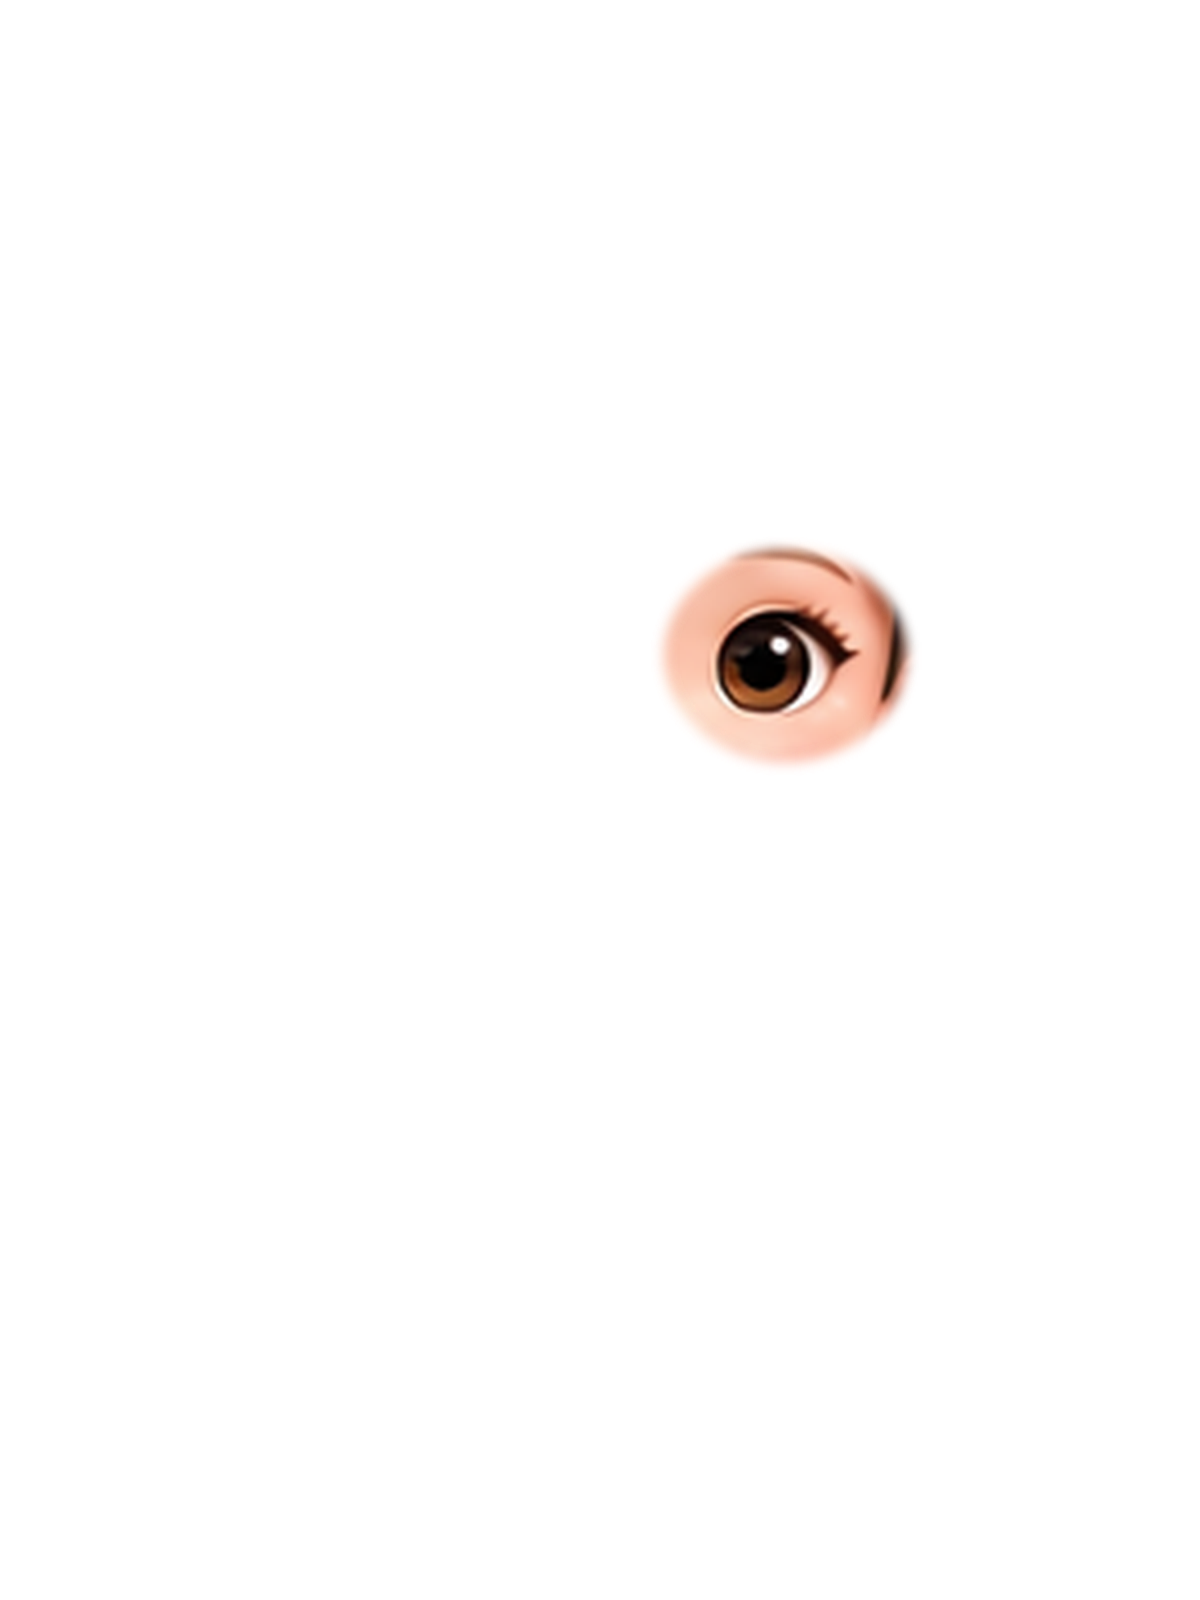
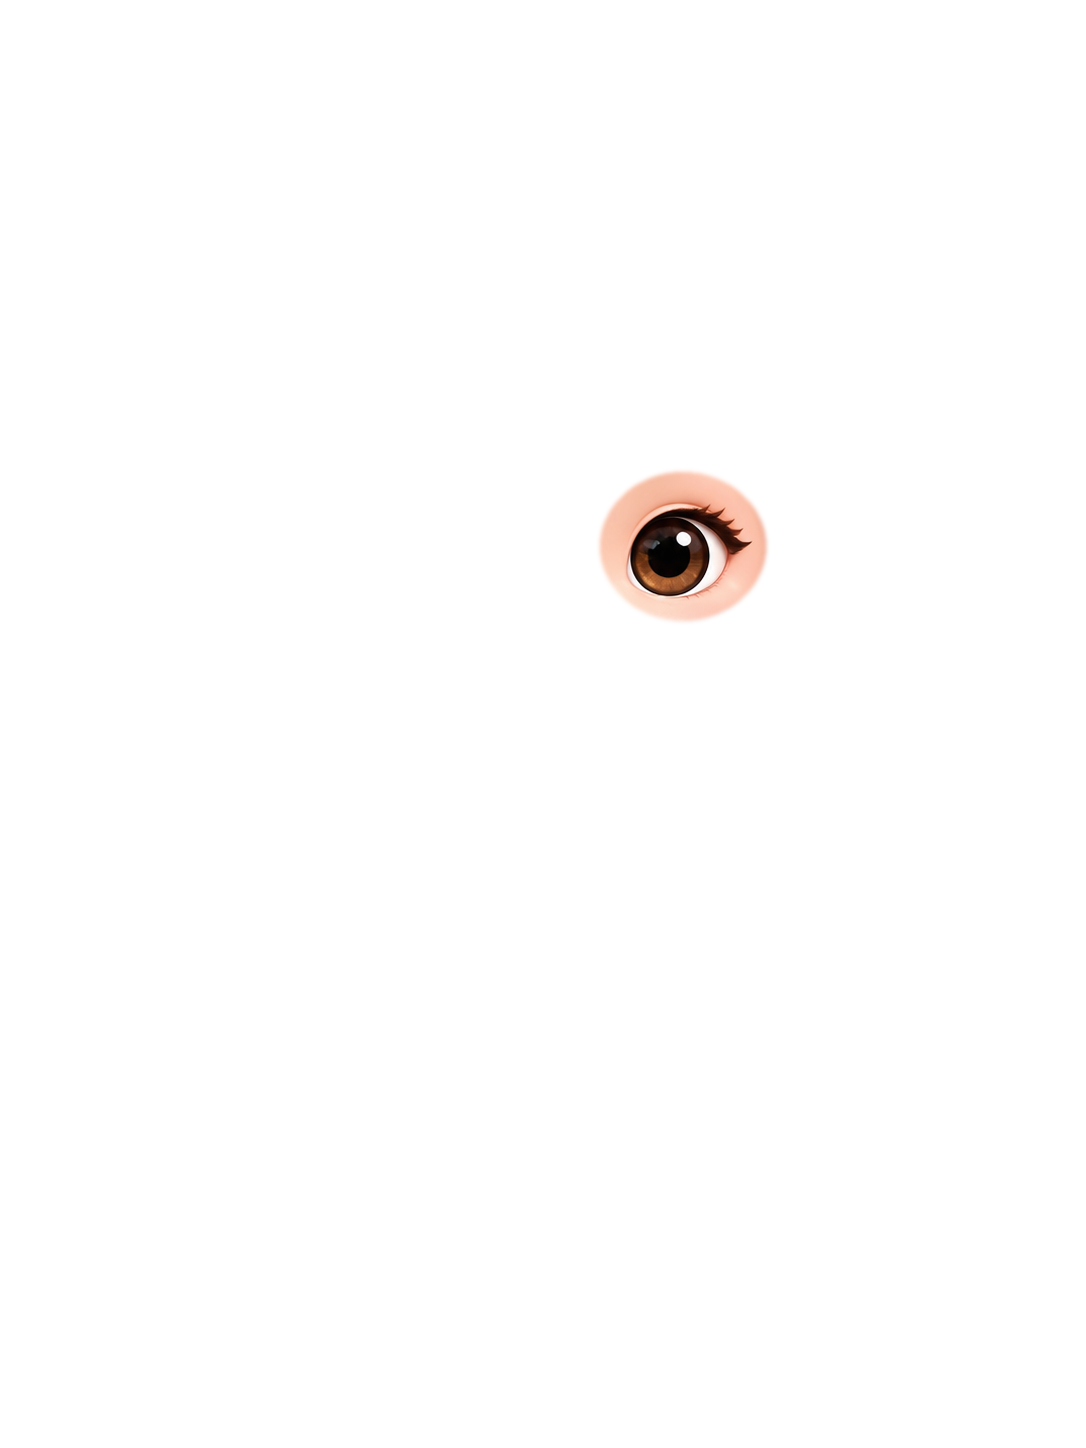
Build full Riki body and dress-up rig

Changed region(s): [[0.547, 0.3108, 0.7597, 0.4972]]

diff --git a/preview-layered-riki.html b/preview-layered-riki.html
@@ -1,21 +1,25 @@
-<!doctype html>
-<html lang="en"><head><meta charset="utf-8"><meta name="viewport" content="width=device-width,initial-scale=1"><title>Riki — Layered Character Test</title>
-<style>
-:root{font-family:Nunito,ui-rounded,"Arial Rounded MT Bold",system-ui,sans-serif;color:#57364f;background:#fff5fb}*{box-sizing:border-box}body{margin:0;min-height:100vh;background:radial-gradient(circle at 50% 5%,#fff 0,#fff6fb 42%,#f9e8f4 100%)}main{width:min(100%,840px);margin:auto;padding:18px}.card{background:#fff;border:1px solid #f1d6e8;border-radius:28px;box-shadow:0 18px 50px #be7da52b;overflow:hidden}.header{text-align:center;padding:18px 18px 4px}.header h1{font-size:clamp(22px,5vw,34px);margin:0}.header p{margin:7px auto 0;max-width:620px;line-height:1.35;color:#7a6073}.stage{position:relative;width:min(100%,450px);aspect-ratio:3/4;margin:0 auto;overflow:visible;transform-origin:50% 82%;animation:gentleLife 6s steps(1,end) infinite}.layer{position:absolute;inset:0;width:100%;height:100%;object-fit:contain;pointer-events:none}.mouth,.blink{opacity:0}.mouth.on,.blink.on{opacity:1}.eyes.off,.closed.off{opacity:0}.controls{display:flex;flex-wrap:wrap;justify-content:center;gap:10px;padding:10px 16px 22px}button{border:0;border-radius:999px;padding:12px 18px;min-height:46px;background:#f1d7e9;color:#56334d;font:800 15px inherit;cursor:pointer;box-shadow:inset 0 -2px #b7659633}button.primary{background:#db4f9c;color:#fff}button:focus-visible{outline:3px solid #7b3fff;outline-offset:2px}.proof{margin:0 18px 18px;padding:12px 15px;border-radius:16px;background:#fff7d7;font-size:14px;line-height:1.4}.proof b{color:#9a4b08}@keyframes gentleLife{0%,49%,100%{transform:translateY(0)}50%,99%{transform:translateY(-1px)}}@media(prefers-reduced-motion:reduce){.stage{animation:none}}@media(max-width:520px){main{padding:8px}.card{border-radius:20px}.header{padding-top:14px}.stage{width:min(100%,380px)}.controls{padding-top:2px}button{flex:1 1 42%}}
-</style></head><body><main><section class="card"><div class="header"><h1>Riki’s real layered face</h1><p>One fixed doll. The eyes and mouth are separate transparent pieces aligned to the same canvas.</p></div><div class="stage" aria-label="Layered Riki character preview">
-<img class="layer" src="assets/characters/riki-layered/base.webp" alt="">
-<img class="layer eyes" src="assets/characters/riki-layered/eye-left.webp" alt=""><img class="layer eyes" src="assets/characters/riki-layered/eye-right.webp" alt="">
-<img class="layer blink" src="assets/characters/riki-layered/eyes-blink.webp" alt="">
-<img class="layer closed" src="assets/characters/riki-layered/mouth-closed.webp" alt="">
-<img class="layer mouth" data-mouth="small" src="assets/characters/riki-layered/mouth-small.webp" alt=""><img class="layer mouth" data-mouth="wide" src="assets/characters/riki-layered/mouth-wide.webp" alt=""><img class="layer mouth" data-mouth="o" src="assets/characters/riki-layered/mouth-o.webp" alt="">
-</div><div class="controls"><button class="primary" id="talk">▶ Hear Riki talk</button><button id="blink">Blink once</button><button id="stop">Stop</button></div><div class="proof"><b>What changed:</b> she now always blinks while speaking and has a crisp one-pixel breathing settle. Her body, hair, head, and lighting never switch images. Only a small mouth layer changes while she speaks, and only the eye layer changes when she blinks.</div></section></main>
+<!doctype html><html lang="en"><head><meta charset="utf-8"><meta name="viewport" content="width=device-width,initial-scale=1"><title>Riki — Full Dress-Up Rig</title><style>
+:root{font-family:Nunito,ui-rounded,"Arial Rounded MT Bold",system-ui,sans-serif;color:#56364e;background:#fff4fb}*{box-sizing:border-box}body{margin:0;min-height:100vh;background:radial-gradient(circle at 50% 4%,#fff 0,#fff5fb 45%,#f7e4f2 100%)}main{width:min(100%,900px);margin:auto;padding:14px}.card{background:#fff;border:1px solid #efd4e6;border-radius:28px;box-shadow:0 18px 50px #b36e9b28;overflow:hidden}.header{text-align:center;padding:16px 16px 0}.header h1{font-size:clamp(22px,5vw,34px);margin:0}.header p{margin:6px auto 0;max-width:650px;line-height:1.35;color:#796073}.stage{position:relative;width:min(100%,440px);aspect-ratio:3/4;margin:0 auto;overflow:visible}.layer{position:absolute;inset:0;width:100%;height:100%;object-fit:contain;pointer-events:none;transform:translateZ(0)}.blink,.mouth,.wearable{opacity:0}.blink.on,.mouth.on,.wearable.on{opacity:1}.eyes.off,.closed.off{opacity:0}.arm-left,.hand-left{transform-origin:38.9% 55.2%;transition:transform .36s ease-in-out}.arm-right,.hand-right{transform-origin:61.1% 55.2%;transition:transform .36s ease-in-out}.wave-left{transform:rotate(3deg)}.wave-right{transform:rotate(-3deg)}.panel{padding:4px 16px 20px}.row{display:flex;flex-wrap:wrap;justify-content:center;gap:8px;margin-top:9px}.label{text-align:center;font-size:12px;font-weight:900;letter-spacing:.08em;text-transform:uppercase;color:#9b6b8c;margin-top:10px}button{border:0;border-radius:999px;min-height:42px;padding:10px 15px;background:#f2dcea;color:#56364e;font:800 14px inherit;cursor:pointer;box-shadow:inset 0 -2px #9e507c2b}button.primary,button.selected{background:#da4e9a;color:#fff}button:focus-visible{outline:3px solid #7438ea;outline-offset:2px}.proof{margin:0 18px 18px;padding:12px 15px;border-radius:16px;background:#fff7d8;font-size:14px;line-height:1.4}.proof b{color:#95480d}@media(max-width:520px){main{padding:7px}.card{border-radius:20px}.stage{width:min(100%,370px)}.panel{padding-top:0}button{flex:1 1 29%;padding-inline:8px}}
+</style></head><body><main><section class="card"><div class="header"><h1>Riki’s full dress-up rig</h1><p>Clean hair edges, separate body pieces, and fixed anchors that keep clothing and accessories attached correctly.</p></div>
+<div class="stage" aria-label="Fully layered Riki doll">
+<img class="layer" src="assets/characters/riki-layered/hair-back.webp" alt="">
+<img class="layer" src="assets/characters/riki-layered/legs-shoes.webp" alt="">
+<img class="layer" src="assets/characters/riki-layered/torso.webp" alt="">
+<img class="layer arm-left" src="assets/characters/riki-layered/arm-left.webp" alt=""><img class="layer arm-right" src="assets/characters/riki-layered/arm-right.webp" alt="">
+<img class="layer wearable outfit dress" src="assets/characters/riki-layered/outfit-pink-dress.webp" alt=""><img class="layer wearable outfit mint" src="assets/characters/riki-layered/outfit-mint-top.webp" alt=""><img class="layer wearable shoes" src="assets/characters/riki-layered/shoes-pink.webp" alt="">
+<img class="layer" src="assets/characters/riki-layered/head-base.webp" alt=""><img class="layer eyes" src="assets/characters/riki-layered/eye-left.webp" alt=""><img class="layer eyes" src="assets/characters/riki-layered/eye-right.webp" alt=""><img class="layer blink" src="assets/characters/riki-layered/eyes-blink.webp" alt="">
+<img class="layer closed" src="assets/characters/riki-layered/mouth-closed.webp" alt=""><img class="layer mouth" src="assets/characters/riki-layered/mouth-small.webp" alt=""><img class="layer mouth" src="assets/characters/riki-layered/mouth-wide.webp" alt=""><img class="layer mouth" src="assets/characters/riki-layered/mouth-o.webp" alt="">
+<img class="layer hand-left" src="assets/characters/riki-layered/hand-left.webp" alt=""><img class="layer hand-right" src="assets/characters/riki-layered/hand-right.webp" alt=""><img class="layer wearable accessories" src="assets/characters/riki-layered/accessories-sunshine.webp" alt="">
+</div><div class="panel"><div class="label">Outfit</div><div class="row outfit-controls"><button data-outfit="none">Basics</button><button data-outfit="dress" class="selected">Pink dress</button><button data-outfit="mint">Mint top</button></div><div class="label">Extras</div><div class="row"><button id="shoes">Pink shoes</button><button id="accessories">Accessories</button><button id="wave">Small wave</button></div><div class="row"><button class="primary" id="talk">▶ Hear Riki talk</button><button id="blink">Blink</button><button id="stop">Stop</button></div></div><div class="proof"><b>Built for dress-up:</b> shoulders, neck, waist, hips, ears, hands, and feet now have saved coordinates. Clothes use those coordinates, hands stay above the outfit, and hair stays behind the body.</div></section></main>
 <script>
-const mouths=[...document.querySelectorAll('.mouth')],closed=document.querySelector('.closed'),eyes=[...document.querySelectorAll('.eyes')],blink=document.querySelector('.blink');let timer=0,utterance=null,blinkBusy=false,blinkTimer=0,talkBlinkTimer=0;
-function neutral(){clearInterval(timer);timer=0;mouths.forEach(x=>x.classList.remove('on'));closed.classList.remove('off')}
+const $=s=>document.querySelector(s),$$=s=>[...document.querySelectorAll(s)],mouths=$$('.mouth'),closed=$('.closed'),eyes=$$('.eyes'),blink=$('.blink');let speechTimer=0,blinkBusy=false,autoBlink=0,talkBlink=0;
+function neutral(){clearInterval(speechTimer);speechTimer=0;mouths.forEach(x=>x.classList.remove('on'));closed.classList.remove('off')}
 function showMouth(i){closed.classList.add('off');mouths.forEach((x,n)=>x.classList.toggle('on',n===i))}
 function blinkOnce(){if(blinkBusy)return;blinkBusy=true;eyes.forEach(x=>x.classList.add('off'));blink.classList.add('on');setTimeout(()=>{blink.classList.remove('on');eyes.forEach(x=>x.classList.remove('off'));blinkBusy=false},125)}
-function scheduleBlink(){clearTimeout(blinkTimer);blinkTimer=setTimeout(()=>{blinkOnce();scheduleBlink()},3200+Math.random()*2600)}
-scheduleBlink();
-document.querySelector('#blink').onclick=blinkOnce;document.querySelector('#stop').onclick=()=>{speechSynthesis.cancel();clearTimeout(talkBlinkTimer);neutral()};
-document.querySelector('#talk').onclick=()=>{speechSynthesis.cancel();clearTimeout(talkBlinkTimer);neutral();let n=0;timer=setInterval(()=>showMouth([0,1,0,2,0,1][n++%6]),145);talkBlinkTimer=setTimeout(blinkOnce,700);utterance=new SpeechSynthesisUtterance("Hi! I am Riki. Are you ready to learn and play with me?");utterance.rate=.92;utterance.pitch=1.18;utterance.onend=neutral;utterance.onerror=neutral;speechSynthesis.speak(utterance)};
+function scheduleBlink(){clearTimeout(autoBlink);autoBlink=setTimeout(()=>{blinkOnce();scheduleBlink()},3000+Math.random()*2600)}scheduleBlink();
+$$('[data-outfit]').forEach(b=>b.onclick=()=>{$$('[data-outfit]').forEach(x=>x.classList.toggle('selected',x===b));$$('.outfit').forEach(x=>x.classList.toggle('on',x.classList.contains(b.dataset.outfit))) });$('.dress').classList.add('on');
+$('#shoes').onclick=()=>{$('.shoes').classList.toggle('on');$('#shoes').classList.toggle('selected')};$('#accessories').onclick=()=>{$('.accessories').classList.toggle('on');$('#accessories').classList.toggle('selected')};
+$('#wave').onclick=()=>{const parts=$$('.arm-right,.hand-right');parts.forEach(x=>x.classList.add('wave-right'));setTimeout(()=>parts.forEach(x=>x.classList.remove('wave-right')),650)};
+$('#blink').onclick=blinkOnce;$('#stop').onclick=()=>{speechSynthesis.cancel();clearTimeout(talkBlink);neutral()};
+$('#talk').onclick=()=>{speechSynthesis.cancel();clearTimeout(talkBlink);neutral();let n=0;speechTimer=setInterval(()=>showMouth([0,1,0,2,0,1][n++%6]),150);talkBlink=setTimeout(blinkOnce,700);const u=new SpeechSynthesisUtterance('Hi! I am Riki. My clothes and accessories stay with me when I move.');u.rate=.92;u.pitch=1.18;u.onend=neutral;u.onerror=neutral;speechSynthesis.speak(u)};
 </script></body></html>

diff --git a/COORDINATION.md b/COORDINATION.md
@@ -4,7 +4,6 @@ Open draft pull requests are the live record of who is editing what. This file i
 Add a row when you open your draft PR and remove it in the same PR when you finish.
 
 | Who | Branch | Files | Status |
-| ChatGPT | `chatgpt/riki-full-body-rig` | `preview-layered-riki.html`, `assets/characters/riki-layered/*`, `COORDINATION.md` | Building full body-part rig with clothing and accessory anchors |
 
 ## Map of the code
 
